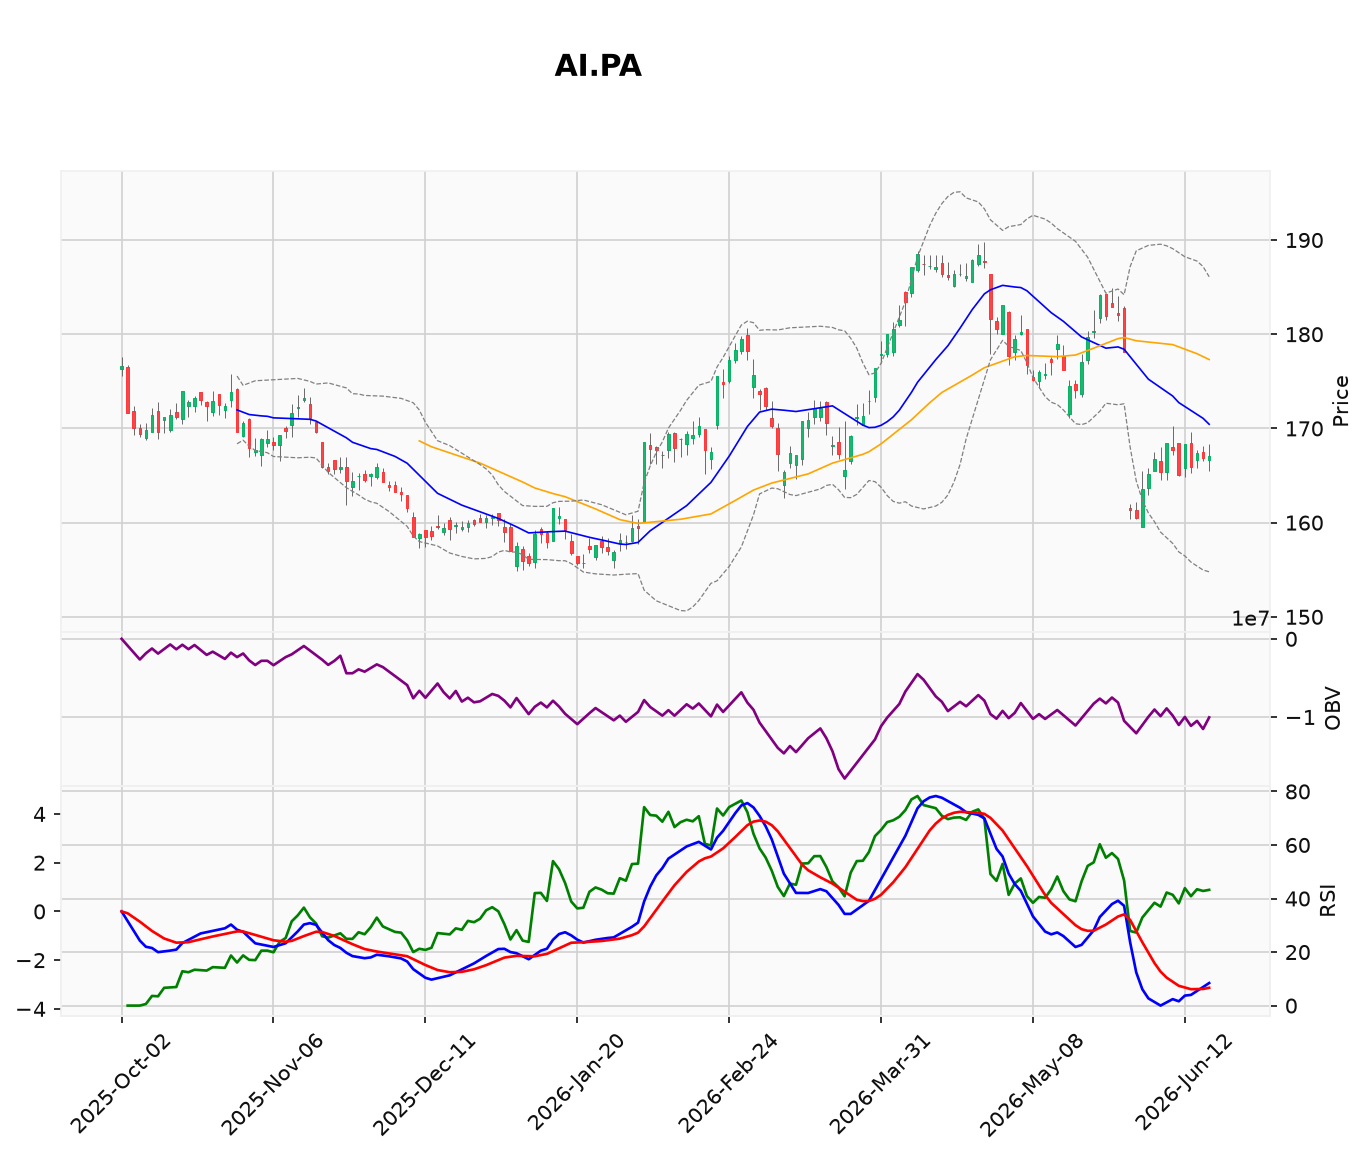
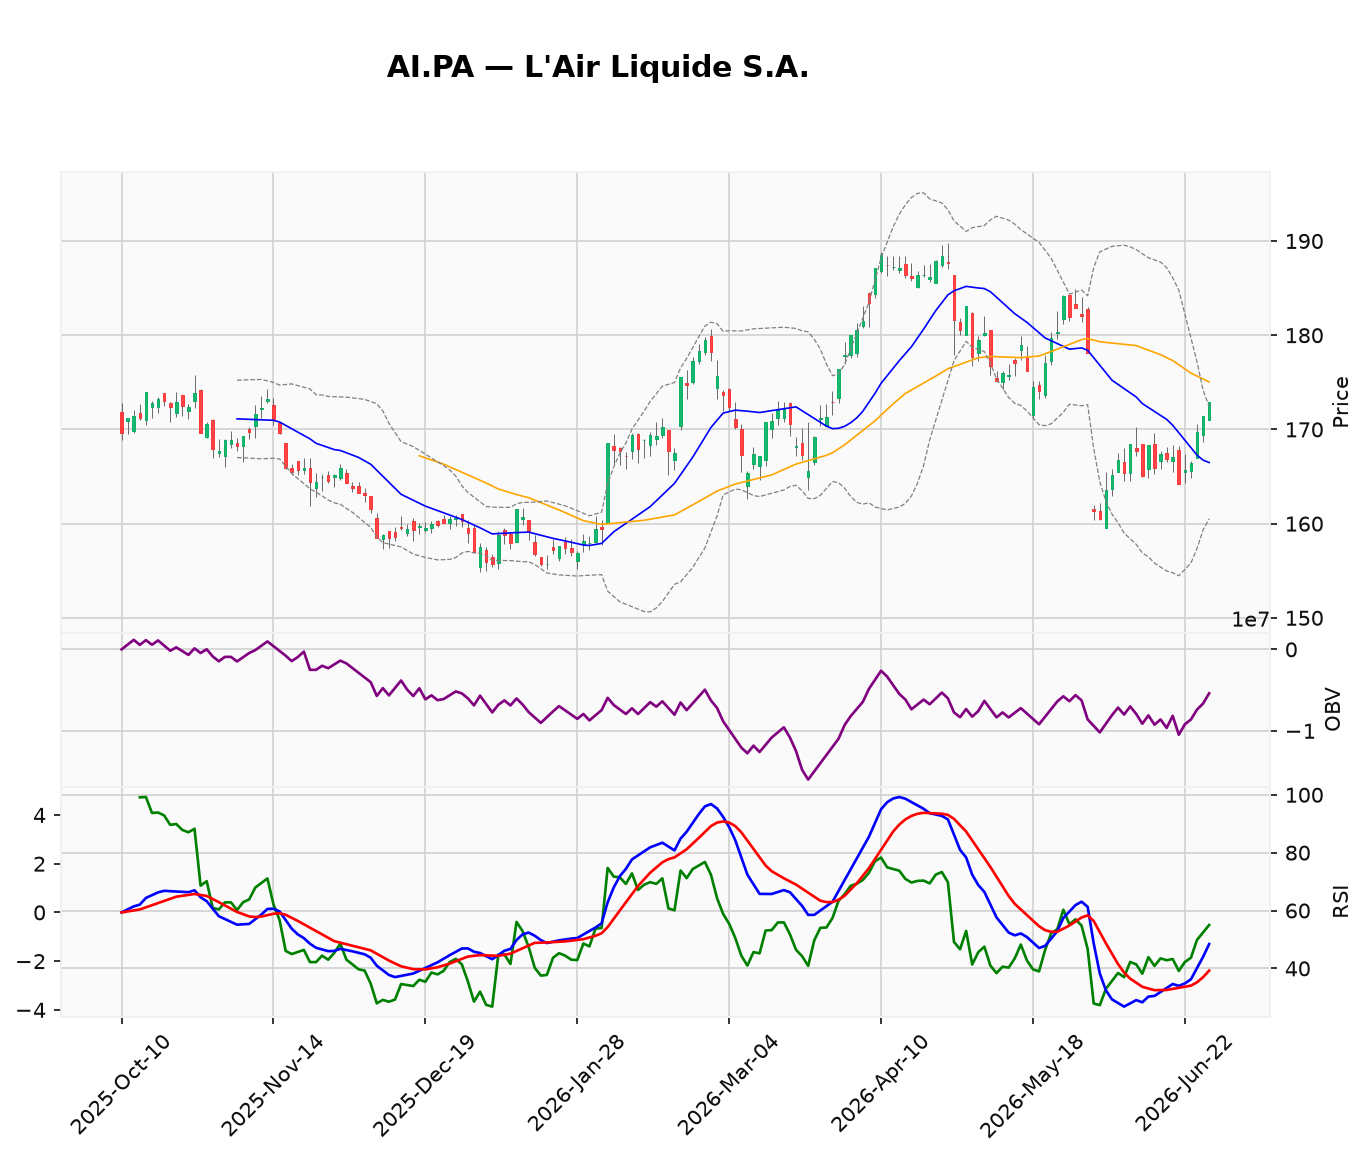
fix: applica findings /code-review sul tooling di sessione
Skill /code-review (nota #3) eseguita sul codice nuovo -> fix:
1) execution_sheet: parsing PER-SCHEDA con campi indipendenti (prima un
   unico regex rigido scartava SILENZIOSAMENTE una posizione se mancava un
   campo, es. niente runner T3 -> rischio sotto-riportato). Ora schede
   incomplete sono SEGNALATE, mai perse.
2) self_improve: aggiunto check concentrazione di CONTINENTE (IT+FR=EU):
   un book 100% EU e' una scommessa correlata anche se "due mercati".
   Ora correttamente flaggato (oggi 12/12 EU per US in PULLBACK).
3) unicorn_validate._megacap_topq: cache dei segnali (no doppio build per hz).
4) fundamentals_eu: rimosso _ratio dead code.
5) company_names: rimossi .replace() no-op.

Claude-Session: https://claude.ai/code/session_01EphBDX2QWi4j42nsyUuPhC

diff --git a/execution_sheet.py b/execution_sheet.py
@@ -13,14 +13,15 @@ import datetime
 
 CAP = 50000.0   # capitale di riferimento (coerente con portfolio_builder.build default)
 
-_PAT = re.compile(
-    r'([A-Z0-9]+\.?[A-Z]{0,3})\s*\|\s*Score:\s*([\d.]+)\s*\|\s*CONFIDENZA:\s*(\w+)'
-    r'.*?Entry:\s*([\d.]+)\s+Stop:\s*([\d.]+)'
-    r'.*?Target 1:.*?\+([\d.]+)% net = \+?(-?\d+)EUR'
-    r'.*?Target 2:.*?= \+?(-?\d+)EUR'
-    r'.*?Target 3:.*?= \+?(-?\d+)EUR'
-    r'.*?SIZING:\s*(\d+) azioni = (\d+)EUR\s*\(([\d.]+)%'
-    r'.*?Rischio massimo posizione:\s*(\d+)EUR', re.S)
+# Header di scheda: 'TICK | Score: X | CONFIDENZA: Y'. Si parsa PER-SCHEDA (campi indipendenti)
+# cosi' una posizione NON sparisce dal foglio se manca un campo opzionale (es. niente runner T3):
+# meglio una riga con un target a 0 che una posizione invisibile -> rischio sotto-riportato.
+_HDR = re.compile(r'([A-Z0-9]+\.?[A-Z]{0,3})\s*\|\s*Score:\s*([\d.]+)\s*\|\s*CONFIDENZA:\s*(\w+)')
+
+
+def _target_eur(seg, n):
+    m = re.search(rf'Target {n}:.*?=\s*\+?(-?\d+)EUR', seg)
+    return int(m.group(1)) if m else 0
 
 
 def build_sheet(portfolio_path="data/PORTFOLIO.txt", capital=CAP, out_path="data/EXECUTION_PLAN.txt"):
@@ -28,12 +29,22 @@ def build_sheet(portfolio_path="data/PORTFOLIO.txt", capital=CAP, out_path="data
     asof = re.search(r'—\s*(\d{4}-\d{2}-\d{2})', txt)
     asof = asof.group(1) if asof else datetime.date.today().isoformat()
 
-    rows = []
-    for m in _PAT.finditer(txt):
-        tk, score, conf, entry, stop, t1p, t1e, t2e, t3e, sh, val, pct, risk = m.groups()
-        rows.append(dict(tk=tk, conf=conf, entry=float(entry), stop=float(stop),
-                         sh=int(sh), val=int(val), pct=float(pct), risk=int(risk),
-                         t1e=int(t1e), t2e=int(t2e), t3e=int(t3e)))
+    # segmenta per scheda: ogni header delimita un blocco fino all'header successivo
+    hdrs = list(_HDR.finditer(txt))
+    rows, skipped = [], []
+    for i, h in enumerate(hdrs):
+        seg = txt[h.end():(hdrs[i + 1].start() if i + 1 < len(hdrs) else len(txt))]
+        tk, conf = h.group(1), h.group(3)
+        es = re.search(r'Entry:\s*([\d.]+)\s+Stop:\s*([\d.]+)', seg)
+        sz = re.search(r'SIZING:\s*(\d+) azioni = (\d+)EUR\s*\(([\d.]+)%', seg)
+        rk = re.search(r'Rischio massimo posizione:\s*(\d+)EUR', seg)
+        if not (es and sz and rk):
+            skipped.append(tk)       # scheda informativa o incompleta -> segnalata, non persa in silenzio
+            continue
+        rows.append(dict(tk=tk, conf=conf, entry=float(es.group(1)), stop=float(es.group(2)),
+                         sh=int(sz.group(1)), val=int(sz.group(2)), pct=float(sz.group(3)),
+                         risk=int(rk.group(1)),
+                         t1e=_target_eur(seg, 1), t2e=_target_eur(seg, 2), t3e=_target_eur(seg, 3)))
 
     # nomi azienda per rendere i ticker cercabili
     try:
@@ -80,6 +91,10 @@ def build_sheet(portfolio_path="data/PORTFOLIO.txt", capital=CAP, out_path="data
     w("")
     w(" ESECUZIONE: ordini limite all'entry; stop OBBLIGATORIO subito dopo il fill (non negoziabile).")
     w(" Scala in uscita ai target (laddering); l'edge sta nella coda T2/T3, la mediana per-trade ~0.")
+    if skipped:
+        w("")
+        w(f" ATTENZIONE: {len(skipped)} schede senza entry/sizing/rischio completi, NON quotate: "
+          f"{', '.join(skipped)} (verificare PORTFOLIO.txt).")
 
     sheet = "\n".join(L) + "\n"
     if out_path:

diff --git a/unicorn_validate.py b/unicorn_validate.py
@@ -275,18 +275,24 @@ def live_sleeve(min_score=50.0, growth_gate=0.25, out_path="data/unicorn_sleeve.
     return df
 
 
+_MEGA_SIG = None   # cache dei segnali mega-cap (build_signals e' caro: non rifarlo per ogni hz)
+
 def _megacap_topq(hz, col):
-    """Stesso modello sui 45 mega-cap USA originari (dal dataset lungo), per confronto equo."""
+    """Stesso modello sui 45 mega-cap USA originari (dal dataset lungo), per confronto equo.
+    I segnali (indipendenti dall'orizzonte) sono cachati: run(10) e run(20) non li ricostruiscono."""
+    global _MEGA_SIG
     if not os.path.exists(LONG_PATH):
         return None
-    mega_tickers = ["AAPL", "MSFT", "NVDA", "GOOGL", "AMZN", "META", "AVGO", "TSLA", "LLY", "JPM",
-                    "V", "UNH", "XOM", "COST", "HD", "PG", "JNJ", "ORCL", "BAC", "NFLX",
-                    "AMD", "CRM", "KO", "CVX", "MRK", "WMT", "PLTR", "GE", "CAT", "GS",
-                    "ADBE", "QCOM", "TXN", "ABBV", "PEP", "MCD", "ACN", "INTC", "CSCO", "NOW",
-                    "AMAT", "DIS", "TMO", "ABT", "LIN"]
-    long = pd.read_csv(LONG_PATH, parse_dates=["date"]).dropna(subset=["close"])
-    long = long[long["ticker"].isin(mega_tickers)]
-    sig = bt.build_signals(long, bt.score_new, horizons=(5, 10, 20))
+    if _MEGA_SIG is None:
+        mega_tickers = ["AAPL", "MSFT", "NVDA", "GOOGL", "AMZN", "META", "AVGO", "TSLA", "LLY", "JPM",
+                        "V", "UNH", "XOM", "COST", "HD", "PG", "JNJ", "ORCL", "BAC", "NFLX",
+                        "AMD", "CRM", "KO", "CVX", "MRK", "WMT", "PLTR", "GE", "CAT", "GS",
+                        "ADBE", "QCOM", "TXN", "ABBV", "PEP", "MCD", "ACN", "INTC", "CSCO", "NOW",
+                        "AMAT", "DIS", "TMO", "ABT", "LIN"]
+        long = pd.read_csv(LONG_PATH, parse_dates=["date"]).dropna(subset=["close"])
+        long = long[long["ticker"].isin(mega_tickers)]
+        _MEGA_SIG = bt.build_signals(long, bt.score_new, horizons=(5, 10, 20))
+    sig = _MEGA_SIG
     if sig.empty or col not in sig.columns:
         return None
     sig = sig.dropna(subset=[col])

diff --git a/self_improve.py b/self_improve.py
@@ -69,7 +69,7 @@ def audit(portfolio="data/PORTFOLIO.txt", regime="data/regime_filter.csv",
         findings.append(("MEDIA", "rischio", f"posizione max {max(vals)/capital*100:.0f}% > cap 10%",
                          "verificare pos_cap in trade_proposal", "code"))
 
-    # 3) CONCENTRAZIONE MERCATO --------------------------------------------
+    # 3) CONCENTRAZIONE MERCATO E CONTINENTE -------------------------------
     mkts = re.findall(r"FOREGROUND:.*\|\s*(IT|FR|US)\s*$", txt, re.M)
     if mkts:
         from collections import Counter
@@ -78,6 +78,15 @@ def audit(portfolio="data/PORTFOLIO.txt", regime="data/regime_filter.csv",
         if n / len(mkts) > 0.8:
             findings.append(("MEDIA", "diversif.", f"concentrazione {top_mkt} {n}/{len(mkts)} (>80%)",
                              "il regime di un solo mercato domina: monitorare correlazione", "stats"))
+        # concentrazione di CONTINENTE: IT+FR sono entrambi EU -> un book 100% EU resta
+        # una scommessa correlata su un'unica regione anche se IT e FR sono "due mercati".
+        cont = Counter("EU" if m in ("IT", "FR") else "US" for m in mkts)
+        top_c, nc = cont.most_common(1)[0]
+        if nc / len(mkts) > 0.85 and len(set(mkts)) > 1:
+            findings.append(("MEDIA", "diversif.", f"book {nc}/{len(mkts)} concentrato su {top_c} "
+                             f"(0 esposizione all'altra area)",
+                             "regione correlata: e' per regime (es. US in PULLBACK) ma monitorare "
+                             "il rischio macro comune; valutare hedge indice di area", "stats"))
 
     # 4) QUALITA' DEI NOMI (confidenza/distribuzione) ----------------------
     n_bassa = len(re.findall(r"conf BASSA", txt))

diff --git a/fundamentals_eu.py b/fundamentals_eu.py
@@ -104,11 +104,6 @@ def _metrics_for_year(ts, end_date):
     ocf = g("ocf"); ca = g("current_assets"); cl = g("current_liabilities")
     cash = g("cash"); ltd = g("long_term_debt"); eq = g("stockholders_equity")
     eps = g("eps_diluted")
-    def _ratio(a, b, lo=-5.0, hi=1.5):
-        if a is None or not b:
-            return None
-        m = a / b
-        return m if (b > 0 and lo < m <= hi) else (a / b if b > 0 else None)
     net_margin = (ni / rev) if (ni is not None and rev and rev > 0) else None
     ocf_margin = (ocf / rev) if (ocf is not None and rev and rev > 0) else None
     current_ratio = (ca / cl) if (ca is not None and cl and cl != 0) else None

diff --git a/company_names.py b/company_names.py
@@ -51,9 +51,7 @@ def _from_sec():
 
 def _titlecase(s):
     """SEC scrive in MAIUSCOLO (MICROSOFT CORPORATION) -> Title Case leggibile."""
-    if s.isupper():
-        return s.title().replace("Corp", "Corp").replace("Inc", "Inc")
-    return s
+    return s.title() if s.isupper() else s
 
 
 def _from_yahoo(tickers):